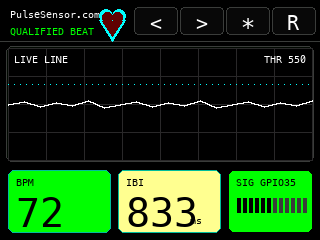
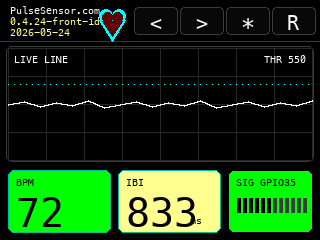
Add first screen version identity 20260524

Changed region(s): [[0.0312, 0.0292, 0.3125, 0.175]]

diff --git a/tools/render_pulse_app_mock.py b/tools/render_pulse_app_mock.py
@@ -21,6 +21,8 @@ COLOR_RED_DARK = (96, 0, 0)
 TOOLBAR_BUTTON_WIDTH = 44
 TOOLBAR_BUTTON_HEIGHT = 28
 APP_BUTTON_GAP = 2
+APP_VERSION = "0.4.24-front-id"
+APP_FIRMWARE_DATE = "2026-05-24"
 
 try:
     FONT_1 = ImageFont.truetype("/System/Library/Fonts/Menlo.ttc", 10)
@@ -56,6 +58,12 @@ def draw_nav(draw, width, y):
     draw_button(draw, next_x, y, TOOLBAR_BUTTON_WIDTH, ">")
     draw_button(draw, settings_x, y, TOOLBAR_BUTTON_WIDTH, "*")
     draw_button(draw, rotate_x, y, TOOLBAR_BUTTON_WIDTH, "R")
+
+
+def draw_header_identity(draw, x, y):
+    draw.text((x, y), "PulseSensor.com", font=FONT_1, fill=COLOR_TEXT)
+    draw.text((x, y + 11), APP_VERSION, font=FONT_1, fill=COLOR_SIGNAL_YELLOW)
+    draw.text((x, y + 22), APP_FIRMWARE_DATE, font=FONT_1, fill=COLOR_SIGNAL_YELLOW)
 
 
 def draw_heart(draw, cx, cy, size=13):
@@ -117,22 +125,19 @@ def render(width, height, locked, filename):
         graph = (8, 82, width - 16, 146)
         panels = [(8, 240, 68, 72), (84, 240, 68, 72), (160, 240, 72, 72)]
         nav_y = 4
-        heart = (24, 52)
-        title_xy = (52, 38)
-        coach_xy = (62, 58)
+        heart = (width - 32, 54)
+        title_xy = (10, 38)
     else:
         header_h = 42
         graph = (8, 48, width - 16, 112)
         panels = [(8, 170, 102, 62), (118, 170, 102, 62), (228, 170, 84, 62)]
         nav_y = 7
         heart = (112, 22)
-        title_xy = (10, 8)
-        coach_xy = (10, 25)
+        title_xy = (10, 4)
 
     draw.rectangle((0, 0, width, header_h), fill=COLOR_BG)
     draw.line((0, header_h - 1, width, header_h - 1), fill=COLOR_GRID)
-    draw.text(title_xy, "PulseSensor.com", font=FONT_1, fill=COLOR_TEXT)
-    draw.text(coach_xy, "QUALIFIED BEAT" if locked else "GOOD WAVE", font=FONT_1, fill=COLOR_SIGNAL_YELLOW if not locked else COLOR_LOCK_GREEN)
+    draw_header_identity(draw, *title_xy)
     draw_heart(draw, *heart)
     draw_nav(draw, width, nav_y)
 

diff --git a/tools/check_signal_diagnostics.py b/tools/check_signal_diagnostics.py
@@ -10,7 +10,7 @@ required_source = {
     "#define RAW_SIGNAL_DIAGNOSTICS 0": "release build must keep raw diagnostics off by default",
     "#define RAW_SIGNAL_DIAGNOSTICS_MS 20": "raw diagnostics should stream at 50 Hz",
     "#ifndef APP_VERSION": "release firmware version must be overrideable by diagnostic build flags",
-    '#define APP_VERSION "0.4.23-clip-guard"': "release firmware version must identify the clipping guard build",
+    '#define APP_VERSION "0.4.24-front-id"': "release firmware version must identify the front-screen identity build",
     "void printRawSignalDiagnostics": "firmware must have a raw diagnostic printer",
     "rawDiag,ms,signal,amp,bpm,ibi,locked,quality,p2p,range,clip,inside,beat,accept,drop,qStreak,badStreak": "CSV header is missing required fields",
     "rawDiagnosticsBeatPending": "diagnostics must mark firmware beat events",
@@ -26,7 +26,7 @@ required_source = {
 
 required_platformio = {
     "[env:cyd_diag]": "diagnostic PlatformIO environment is missing",
-    '-D APP_VERSION=\\"0.4.23-clip-guard-log\\"': "diagnostic build must set the logging firmware version",
+    '-D APP_VERSION=\\"0.4.24-front-id-log\\"': "diagnostic build must set the logging firmware version",
     "-D RAW_SIGNAL_DIAGNOSTICS=1": "diagnostic build must enable raw CSV streaming",
 }
 

diff --git a/tools/check_app_shell.py b/tools/check_app_shell.py
@@ -44,6 +44,20 @@ header_end = source.index("void drawAppNavControls()", header_start)
 header_body = source[header_start:header_end]
 if "drawVolumeControl();" in header_body:
     raise SystemExit("Pulse header still draws top-bar volume controls")
+if "drawHeaderVersionIdentity();" not in header_body:
+    raise SystemExit("Pulse header should show version/date identity on the first screen")
+if "void drawHeaderVersionIdentity() {" not in source:
+    raise SystemExit("Pulse header version/date helper is missing")
+header_identity_start = source.index("void drawHeaderVersionIdentity() {")
+header_identity_end = source.index("\n}", header_identity_start)
+header_identity_body = source[header_identity_start:header_identity_end]
+for token in [
+    '"PulseSensor.com"',
+    "tft.print(APP_VERSION);",
+    "tft.print(APP_FIRMWARE_DATE);",
+]:
+    if token not in header_identity_body:
+        raise SystemExit("Pulse first-screen header should show brand, version, and firmware date")
 
 settings_start = source.index("void drawSettingsScreen() {")
 settings_end = source.index("void drawSettingsRow", settings_start)

diff --git a/tools/check_clipping_quality_guard.py b/tools/check_clipping_quality_guard.py
@@ -9,14 +9,14 @@ required = {
     "liveRange >= REARM_SIGNAL_RANGE && signalLooksCleanForAcquisition()": "detector re-arm should not run on clipped rail noise",
     "COACH_CLIPPED": "dashboard coach should have a clipped/adjust-sensor state",
     'return "ADJUST SENSOR";': "dashboard should tell the user to adjust the sensor when the ADC is railed",
-    '#define APP_VERSION "0.4.23-clip-guard"': "firmware version should identify the clipping guard fix",
+    '#define APP_VERSION "0.4.24-front-id"': "firmware version should identify the front-screen identity build",
 }
 
 missing = [message for token, message in required.items() if token not in source]
 
 platformio = Path("platformio.ini").read_text()
-if '-D APP_VERSION=\\"0.4.23-clip-guard-log\\"' not in platformio:
-    missing.append("diagnostic PlatformIO env should report the clipping guard logger version")
+if '-D APP_VERSION=\\"0.4.24-front-id-log\\"' not in platformio:
+    missing.append("diagnostic PlatformIO env should report the front-screen identity logger version")
 
 def function_body(name):
     start = source.index(f"\n{name} {{")

diff --git a/tools/check_core_polish.py b/tools/check_core_polish.py
@@ -6,7 +6,7 @@ platformio = Path("platformio.ini").read_text()
 missing = []
 
 required_source = {
-    '#define APP_VERSION "0.4.23-clip-guard"': "release version should identify the clipping guard build",
+    '#define APP_VERSION "0.4.24-front-id"': "release version should identify the front-screen identity build",
     "#ifndef APP_VERSION": "diagnostic build should override the release version by build flag",
     "#define RAW_SIGNAL_DIAGNOSTICS 0": "release build should default raw diagnostics off",
     "#ifndef PERF_DIAGNOSTICS": "perf diagnostics should remain build-flag overrideable",
@@ -23,7 +23,7 @@ required_source = {
 required_platformio = {
     "[env:cyd]": "release PlatformIO environment is missing",
     "[env:cyd_diag]": "diagnostic PlatformIO environment is missing",
-    '-D APP_VERSION=\\"0.4.23-clip-guard-log\\"': "diagnostic build must set logging version",
+    '-D APP_VERSION=\\"0.4.24-front-id-log\\"': "diagnostic build must set logging version",
     "-D RAW_SIGNAL_DIAGNOSTICS=1": "diagnostic build must enable raw logging",
 }
 

diff --git a/tools/check_peak_to_peak_experiment.py b/tools/check_peak_to_peak_experiment.py
@@ -4,7 +4,7 @@ source = Path("PulseSensor_CYD.ino").read_text()
 
 required = {
     "#define PEAK_TO_PEAK_EXPERIMENT 1": "experiment switch must be enabled",
-    '#define APP_VERSION "0.4.23-clip-guard"': "firmware version must identify the clipping guard build",
+    '#define APP_VERSION "0.4.24-front-id"': "firmware version must identify the front-screen identity build",
     "bool isPeakToPeakCandidateBeat": "candidate helper is missing",
     "int peakToPeakScoreForCurrentSignal": "acquisition scoring hook is missing",
     "decision.peakToPeakAccepted = PEAK_TO_PEAK_EXPERIMENT &&": "read path must use peak-to-peak acceptance",

diff --git a/README.md b/README.md
@@ -50,7 +50,7 @@ This is the current good development pause point for the app shell branch:
 
 ```text
 Branch:   codex/signal-core-polish-publish-prep-20260524
-Firmware: 0.4.23-clip-guard
+Firmware: 0.4.24-front-id
 ```
 
 - Preserved the known-good `0.4.21-signal-log` state with rollback branch/tag `backup/good-working-0.4.21-signal-log-20260524` and `good-working-0.4.21-signal-log-20260524` before cleanup.
@@ -63,9 +63,10 @@ Firmware: 0.4.23-clip-guard
 - Added balanced lock-retention grace: acquisition still needs four consecutive qualified beats, but once locked the dashboard tolerates brief movement/noise blips before clearing BPM/IBI.
 - Added locked-only peak/cadence beat recovery, then an enabled peak-to-peak experiment for the earlobe movement case: once lock is earned, beat events can survive valley distortion when cadence remains close to the last trusted IBI, while short movement-blip intervals are rejected.
 - Added raw signal logging diagnostics and an offline analyzer for the same-earlobe investigation. The latest 44.2 s capture accepted 47 firmware beats, found 47 independent raw peaks, and had matching median IBI/BPM (`918 ms` firmware vs `920 ms` independent), with zero short accepted IBIs below 700 ms.
-- Made raw CSV logging an internal diagnostic build mode: `pio run -e cyd` is the quieter release build, while `pio run -e cyd_diag` enables 50 Hz `rawDiag` rows and reports version `0.4.23-clip-guard-log`.
+- Made raw CSV logging an internal diagnostic build mode: `pio run -e cyd` is the quieter release build, while `pio run -e cyd_diag` enables 50 Hz `rawDiag` rows and reports version `0.4.24-front-id-log`.
 - Polished the single-file firmware without changing beat thresholds: dead top-bar volume/rotate code was removed, repeated app headers and Settings row visibility are shared, beat acceptance is grouped in a `BeatDecision` helper, and the Origin Story sprite is released on app exit/rotation to protect long-run heap behavior.
 - Added a clipping quality guard after hardware showed the ADC railing while the UI still displayed near-full acquisition bars. Clipped or motion-artifact input now forces acquisition quality and peak-to-peak score to zero, blocks detector re-arm, and shows `ADJUST SENSOR` instead of treating rail noise as progress.
+- Added first-screen version tracking: the Pulse dashboard header now shows `APP_VERSION` and `APP_FIRMWARE_DATE` directly under `PulseSensor.com`, and the guard script keeps that convention in future experiment branches.
 - Made long Settings values easier to read in horizontal display rotation by keeping them at the normal Settings text size on a second line; the tiny fallback remains available only for vertical rotation.
 - Added Settings-only controls for Volume, icon-only Rotation, Display, WiFi/Bluetooth placeholders, LED Control, LED swatches, About, Version, Firmware date, runtime memory used/free, and build memory.
 - Added four display modes under Settings `Display`: `M DARK`, `M LIGHT`, `C DARK`, and `C LIGHT`.

diff --git a/CODEX_HANDOFF.md b/CODEX_HANDOFF.md
@@ -25,19 +25,19 @@ codex/signal-core-polish-publish-prep-20260524
 Current firmware/UI code commit:
 
 ```text
-HEAD Close failed signal core experiment 20260524
+HEAD Add first screen version identity 20260524
 ```
 
 Latest signal-behavior log commit:
 
 ```text
-HEAD Close failed signal core experiment 20260524
+HEAD Add first screen version identity 20260524
 ```
 
 Current firmware version:
 
 ```text
-0.4.23-clip-guard
+0.4.24-front-id
 ```
 
 Latest hardware status:
@@ -46,9 +46,10 @@ Latest hardware status:
 - It produced useful diagnostics and one honest UI guard, but it did not restore a trustworthy live pulse experience on hardware.
 - The weird waveform behavior was real: the attached CYD showed rail-to-rail `SIG GPIO35` input with `signal` hitting `0`/`1023`, `range=1023`, `clip=100`, and unusable BPM/IBI.
 - `0.4.23-clip-guard` only made the failure visible and safe: while railed, serial showed `quality=0`, `p2p=0`, `locked=0`, `BPM=0`, `IBI=0`, `rawDiag=0`, and no re-arm spam.
+- `0.4.24-front-id` keeps the same signal behavior and adds `APP_VERSION` plus `APP_FIRMWARE_DATE` directly under `PulseSensor.com` on the first Pulse dashboard screen for fast hardware/version tracking.
 - Next action is to flash current internal `main` and compare. If `main` also rails, investigate physical/electrical causes before touching beat math.
 - Built with PlatformIO in release env `cyd` and diagnostic env `cyd_diag`.
-- Release build defaults raw CSV diagnostics off and reports `0.4.23-clip-guard`; diagnostic build enables 50 Hz `rawDiag` CSV and reports `0.4.23-clip-guard-log`.
+- Release build defaults raw CSV diagnostics off and reports `0.4.24-front-id`; diagnostic build enables 50 Hz `rawDiag` CSV and reports `0.4.24-front-id-log`.
 - Upload target remains `/dev/cu.usbserial-3120`; latest known attached CYD MAC is `f4:2d:c9:9d:af:cc`.
 - User reported the `0.4.22` waveform looked much worse and filled the screen with bar-like noise. Release serial confirmed the ADC was genuinely saturated/clipped, but exposed a UI/control bug: `quality=10/11`, `p2p=6/7`, and detector re-arm messages could appear while `clip=100`.
 - `0.4.23-clip-guard` fixes that: clipped or motion-artifact input forces acquisition quality and peak-to-peak score to `0`, blocks detector re-arm, and shows `ADJUST SENSOR`. A 14 s release serial window after flashing showed `rawDiag=0`, `quality=0`, `p2p=0`, `locked=0`, `BPM=0`, `IBI=0`, and no re-arm messages while the ADC remained railed.

diff --git a/CHANGELOG.md b/CHANGELOG.md
@@ -1,6 +1,7 @@
 # CYD App Launcher — Student Version — Changelog
 
 ## Unreleased
+- 2026-05-24 first-screen version identity: added `APP_VERSION` and `APP_FIRMWARE_DATE` directly under `PulseSensor.com` on the Pulse dashboard header, updated the render mock, and added a guard so future experiment branches keep the version/date visible on the first screen for hardware testing; firmware version is `0.4.24-front-id`.
 - 2026-05-24 failed experiment closure: closed `codex/signal-core-polish-publish-prep-20260524` as a non-merge branch. The branch produced useful diagnostics and a clipping UI guard, but the broader peak-to-peak/acquisition experiment did not restore a trustworthy live pulse experience on hardware. The attached CYD showed weird rail-to-rail waveform behavior (`signal` bouncing/clipping at `0`/`1023`, `clip=100`, unusable BPM/IBI), so the next baseline check should come from current `main`, not this branch.
 - 2026-05-24 clipping quality guard: fixed the saturated/noisy-signal regression where rail-to-rail ADC input could still show near-full acquisition bars, peak-to-peak score, detector re-arm messages, and acquisition harmony even though beat math correctly rejected it; clipped or motion-artifact input now forces acquisition quality and peak-to-peak score to zero, blocks detector re-arm, and shows `ADJUST SENSOR`; firmware version is `0.4.23-clip-guard`.
 - 2026-05-24 signal-core polish pass: preserved and pushed the known-good `0.4.21-signal-log` state to the internal repo with rollback branch/tag `backup/good-working-0.4.21-signal-log-20260524` and `good-working-0.4.21-signal-log-20260524`, kept the source as one beginner-friendly `.ino`, added release/diagnostic PlatformIO modes (`cyd` quiet by default, `cyd_diag` raw CSV logging), removed dead top-bar volume/rotate paths, shared app-frame/header and Settings row helpers, grouped beat acceptance in `BeatDecision` without changing thresholds, added Origin Story sprite release on exit/rotation, and regenerated release binaries; firmware version is `0.4.22-core-polish`.

diff --git a/START_HERE_NEXT_CHAT.md b/START_HERE_NEXT_CHAT.md
@@ -23,19 +23,19 @@ codex/signal-core-polish-publish-prep-20260524
 Current firmware/UI code commit:
 
 ```text
-HEAD Close failed signal core experiment 20260524
+HEAD Add first screen version identity 20260524
 ```
 
 Latest signal-behavior log commit:
 
 ```text
-HEAD Close failed signal core experiment 20260524
+HEAD Add first screen version identity 20260524
 ```
 
 Current firmware version on the attached CYD:
 
 ```text
-0.4.23-clip-guard
+0.4.24-front-id
 ```
 
 Branch verdict:
@@ -49,6 +49,9 @@ Branch verdict:
 - `0.4.23-clip-guard` made that failure honest by showing `quality=0`,
   `p2p=0`, no detector re-arm spam, and no accepted BPM/IBI while the ADC was
   railed. It did not solve the underlying rail-to-rail input.
+- `0.4.24-front-id` keeps the app-shell/signal branch behavior and adds the
+  visible version/date identity directly under `PulseSensor.com` on the first
+  Pulse dashboard screen, with a guard so future experiments keep it visible.
 - Next baseline check: flash current internal `main` and compare. If `main`
   also rails, investigate sensor pressure/placement, power/ground, wiring,
   GPIO35 behavior, and alternate signal pins before changing beat math.

diff --git a/docs/signal-behavior-log.md b/docs/signal-behavior-log.md
@@ -54,6 +54,20 @@ Next baseline:
   pressure and placement, power/ground, connector wiring, GPIO35 behavior, and
   alternate known signal pins such as GPIO27.
 
+## 2026-05-24 - First-Screen Version Identity
+
+Firmware: `0.4.24-front-id` release, `0.4.24-front-id-log` diagnostic
+
+Design:
+
+- The Pulse dashboard now shows `APP_VERSION` and `APP_FIRMWARE_DATE` directly
+  under `PulseSensor.com` on the first screen.
+- `tools/check_app_shell.py` guards this convention so future experiment
+  branches keep the version/date visible during hardware testing.
+- This is a tracking change only. It does not change PulseSensor sampling,
+  clipping guards, acquisition thresholds, BPM/IBI qualification, or diagnostic
+  serial fields.
+
 ## Test Record Template
 
 Use this shape for future hardware notes:
